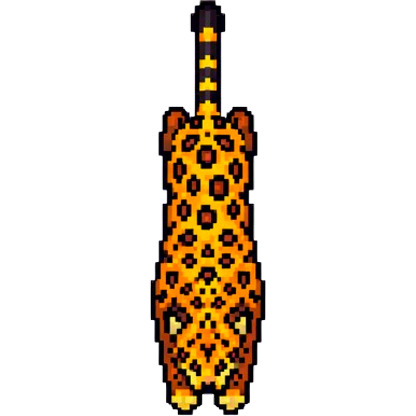
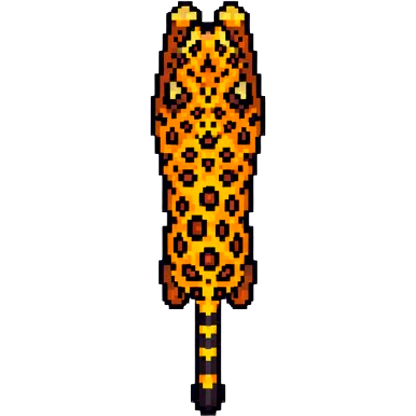
v= 0.42 -agregadas testuras para jaguares espectrales y jaguares infernales

Changed region(s): [[0.3438, 0.0, 0.6562, 1.0]]

diff --git a/clases/manifestaciones/jaguaresEspectrales.js b/clases/manifestaciones/jaguaresEspectrales.js
@@ -1,51 +1,69 @@
 class JaguaresEspectrales extends Manifestacion {
-  static id = "jaguares";
-  constructor(jugador, world) {
-    super(jugador, world);
-    this.id = "jaguares";
-    this.angulo = 0;
-    this.felinos = [];
-    this._reconstruir();
-  }
-  get cantidad() { return Math.min(CONFIG.armas.jaguares.maxFelinos, 1 + this.nivel); }
-  get radio() { const c = CONFIG.armas.jaguares; return this.evolucionada ? c.radioEvo : c.radio; }
-  _reconstruir() {
-    this.felinos.forEach(f => f.destroy());
-    this.felinos = [];
-    for (let i = 0; i < this.cantidad; i++) {
-      const s = 0.7;
-      const g = new PIXI.Graphics();
-      g.ellipse(0, 0, 13 * s, 8 * s).fill(0xdddddd);
-      g.poly([-13 * s, -4 * s, -18 * s, -10 * s, -10 * s, -8 * s]).fill(0xffffff);
-      g.poly([8 * s, -6 * s, 11 * s, -14 * s, 13 * s, -5 * s]).fill(0xffffff);
-      g.circle(-12 * s, -5 * s, 1.6 * s).fill(0x441111);
-      g.tint = this.evolucionada ? 0xff7722 : 0xffcf66;
-      g.alpha = 0.9;
-      this.world.addChild(g);
-      this.felinos.push(g);
+    static id = "jaguares";
+
+    constructor(jugador, world) {
+        super(jugador, world);
+        this.id = "jaguares";
+        this.angulo = 0;
+        this.felinos = [];
+        this._reconstruir();
     }
-  }
-  subirNivel() { super.subirNivel(); this._reconstruir(); }
-  evolucionar() { super.evolucionar(); this._reconstruir(); }
-  update(delta, enemigos) {
-    const c = CONFIG.armas.jaguares;
-    this.angulo += (c.giroBase + this.nivel * c.giroPorNivel) * delta;
-    const dpsPorFelino = (c.dpsBase + this.nivel * c.dpsPorNivel);
-    const danoFrame = this._dmg(dpsPorFelino) / 60 * delta;
-    const golpeRadio = this.evolucionada ? c.golpeRadioEvo : c.golpeRadio;
-    for (let i = 0; i < this.felinos.length; i++) {
-      const a = this.angulo + (i / this.felinos.length) * Math.PI * 2;
-      const fx = this.jugador.x + Math.cos(a) * this.radio;
-      const fy = this.jugador.y + Math.sin(a) * this.radio;
-      const f = this.felinos[i];
-      f.x = fx; f.y = fy;
-      for (const e of enemigos) {
-        if (e.distanciaXY(fx, fy) < golpeRadio + c.golpeMargen) {
-          e.recibirDano(danoFrame);
-          if (this.evolucionada) e.empujar(fx, fy, c.empujeEvo * delta);
+
+    get cantidad() {
+        return Math.min(CONFIG.armas.jaguares.maxFelinos, 1 + this.nivel);
+    }
+
+    get radio() {
+        const c = CONFIG.armas.jaguares;
+        return this.evolucionada ? c.radioEvo : c.radio;
+    }
+
+    _reconstruir() {
+        this.felinos.forEach(f => f.destroy());
+        this.felinos = [];
+        for (let i = 0; i < this.cantidad; i++) {
+            const s = 0.7;
+            const g = this.evolucionada ? _Vistas.infernal() : _Vistas.espectral();
+            this.world.addChild(g);
+            this.felinos.push(g);
         }
-      }
     }
-  }
-  destroy() { this.felinos.forEach(f => f.destroy()); this.felinos = []; }
+
+    subirNivel() {
+        super.subirNivel();
+        this._reconstruir();
+    }
+
+    evolucionar() {
+        super.evolucionar();
+        this._reconstruir();
+    }
+
+    update(delta, enemigos) {
+        const c = CONFIG.armas.jaguares;
+        this.angulo += (c.giroBase + this.nivel * c.giroPorNivel) * delta;
+        const dpsPorFelino = (c.dpsBase + this.nivel * c.dpsPorNivel);
+        const danoFrame = this._dmg(dpsPorFelino) / 60 * delta;
+        const golpeRadio = this.evolucionada ? c.golpeRadioEvo : c.golpeRadio;
+        for (let i = 0; i < this.felinos.length; i++) {
+            const a = this.angulo + (i / this.felinos.length) * Math.PI * 2;
+            const fx = this.jugador.x + Math.cos(a) * this.radio;
+            const fy = this.jugador.y + Math.sin(a) * this.radio;
+            const f = this.felinos[i];
+            f.x = fx;
+            f.y = fy;
+            f.rotation = a + Math.PI;
+            for (const e of enemigos) {
+                if (e.distanciaXY(fx, fy) < golpeRadio + c.golpeMargen) {
+                    e.recibirDano(danoFrame);
+                    if (this.evolucionada) e.empujar(fx, fy, c.empujeEvo * delta);
+                }
+            }
+        }
+    }
+
+    destroy() {
+        this.felinos.forEach(f => f.destroy());
+        this.felinos = [];
+    }
 }

diff --git a/clases/config.js b/clases/config.js
@@ -16,7 +16,7 @@ const CONFIG = {
   //////////////////////////////////////////////////
   partida: {
     duracionMin: 30,    // minutos hasta que aparece el jefe final
-    maxEnemigos: 500,   // tope de enemigos vivos a la vez (performance)
+    maxEnemigos: 2000,   // tope de enemigos vivos a la vez (performance)
 
     // La dificultad escala la VIDA de los enemigos al aparecer:
     //   dificultad = 1 + minutos * incrementoPorMinuto
@@ -134,15 +134,15 @@ const CONFIG = {
   armas: {
     // Daga de Obsidiana (arma inicial): golpe chico al más cercano.
     daga: {
-      golpe: { cdMin: 25, cdBase: 25, cdPorNivel: 3, danoBase: 3, danoPorNivel: 3, alcance: 150, radio: 26 },
+      golpe: { cdMin: 25, cdBase: 60, cdPorNivel: 3, danoBase: 3, danoPorNivel: 3, alcance: 150, radio: 26 },
       // Evolución: Macuahuitl — corte en semicírculo que roba vida.
-      macuahuitl: { cdMin: 26, cdBase: 60, cdPorNivel: 3, danoBase: 16, danoPorNivel: 5, radio: 130, roboVida: 0.5, empuje: 3 },
+      macuahuitl: { cdMin: 15, cdBase: 30, cdPorNivel: 3, danoBase: 16, danoPorNivel: 5, radio: 250, roboVida: 0.5, empuje: 3 },
     },
 
     // Jaguares Espectrales: orbitan al jugador y dañan al contacto.
     jaguares: {
       maxFelinos: 8,                        // cantidad = min(maxFelinos, 1 + nivel)
-      radio: 78, radioEvo: 110,             // radio de la órbita
+      radio: 90, radioEvo: 150,             // radio de la órbita
       giroBase: 0.04, giroPorNivel: 0.004,  // velocidad de giro
       dpsBase: 10, dpsPorNivel: 4,          // daño por segundo de CADA felino
       golpeRadio: 20, golpeRadioEvo: 30, golpeMargen: 12,

diff --git a/clases/game.js b/clases/game.js
@@ -161,7 +161,9 @@ class Game {
             condor,
             guardian,
             daga,
-            machete
+            machete,
+            espectral,
+            infernal,
         ] =
             await Promise.all([
                 PIXI.Assets.load('assets/playerWalk.png'),
@@ -177,7 +179,9 @@ class Game {
                 PIXI.Assets.load('assets/condorVigia.png'),
                 PIXI.Assets.load('assets/guardianCelestial.png'),
                 PIXI.Assets.load('assets/dagaDeObsidiana.png'),
-                PIXI.Assets.load('assets/macuahuitl.png')
+                PIXI.Assets.load('assets/macuahuitl.png'),
+                PIXI.Assets.load('assets/jaguarEspectral.png'),
+                PIXI.Assets.load('assets/jaguarInfernal.png'),
             ]);
         pisoTile.source.addressMode = 'repeat';
         this.texturas = {
@@ -195,6 +199,8 @@ class Game {
             guardian,
             daga,
             machete,
+            espectral,
+            infernal,
         };
         window._TEX = {
             esqueleto,
@@ -206,6 +212,8 @@ class Game {
             guardian,
             daga,
             machete,
+            espectral,
+            infernal,
         };
     }
 

diff --git a/index.html b/index.html
@@ -278,7 +278,7 @@
     (function () {
       // Versión de la release: subir en cada deploy.
       // Alimenta el cache-busting (?v=) y la etiqueta del menú.
-      const VERSION = '0.41';
+      const VERSION = '0.42';
       document.getElementById('version-label').textContent = 'v' + VERSION + ' — 2026';
 
       const scripts = [

diff --git a/clases/enemigos/vistas.js b/clases/enemigos/vistas.js
@@ -57,4 +57,10 @@ const _Vistas = {
     machete(escala = 0.4) {
         return _estSpr(window._TEX.machete, escala);
     },
+    espectral(escala = 0.2) {
+        return _estSpr(window._TEX.espectral, escala);
+    },
+    infernal(escala = 0.3) {
+        return _estSpr(window._TEX.infernal, escala);
+    },
 };
